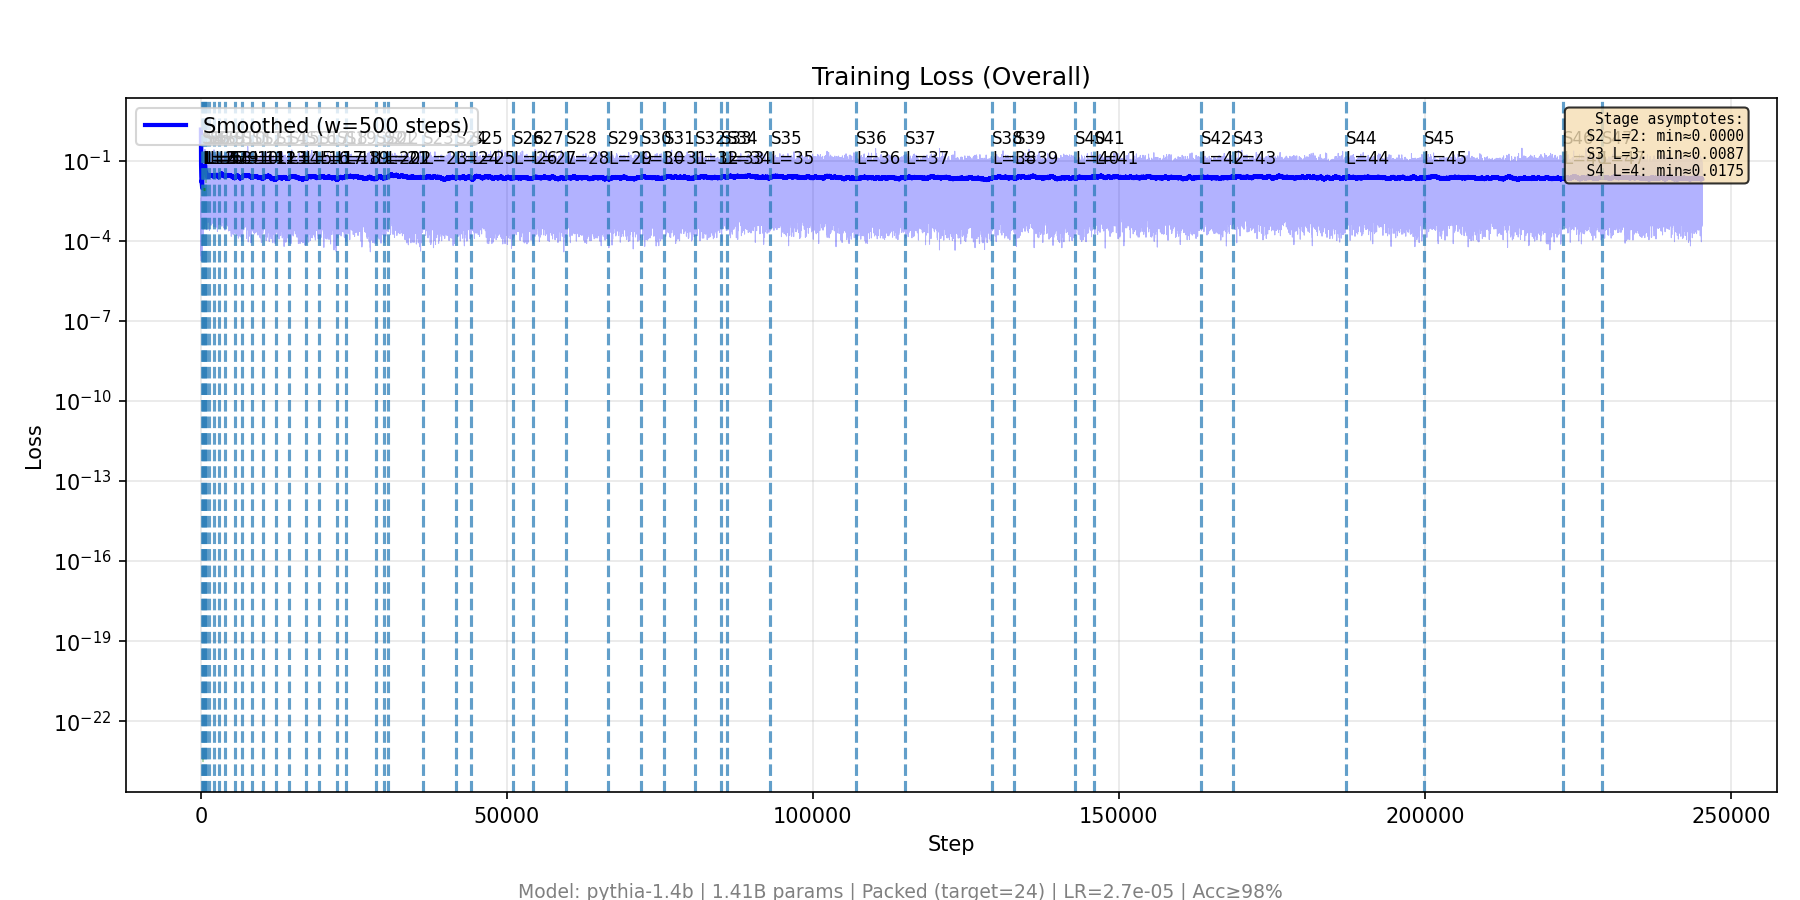
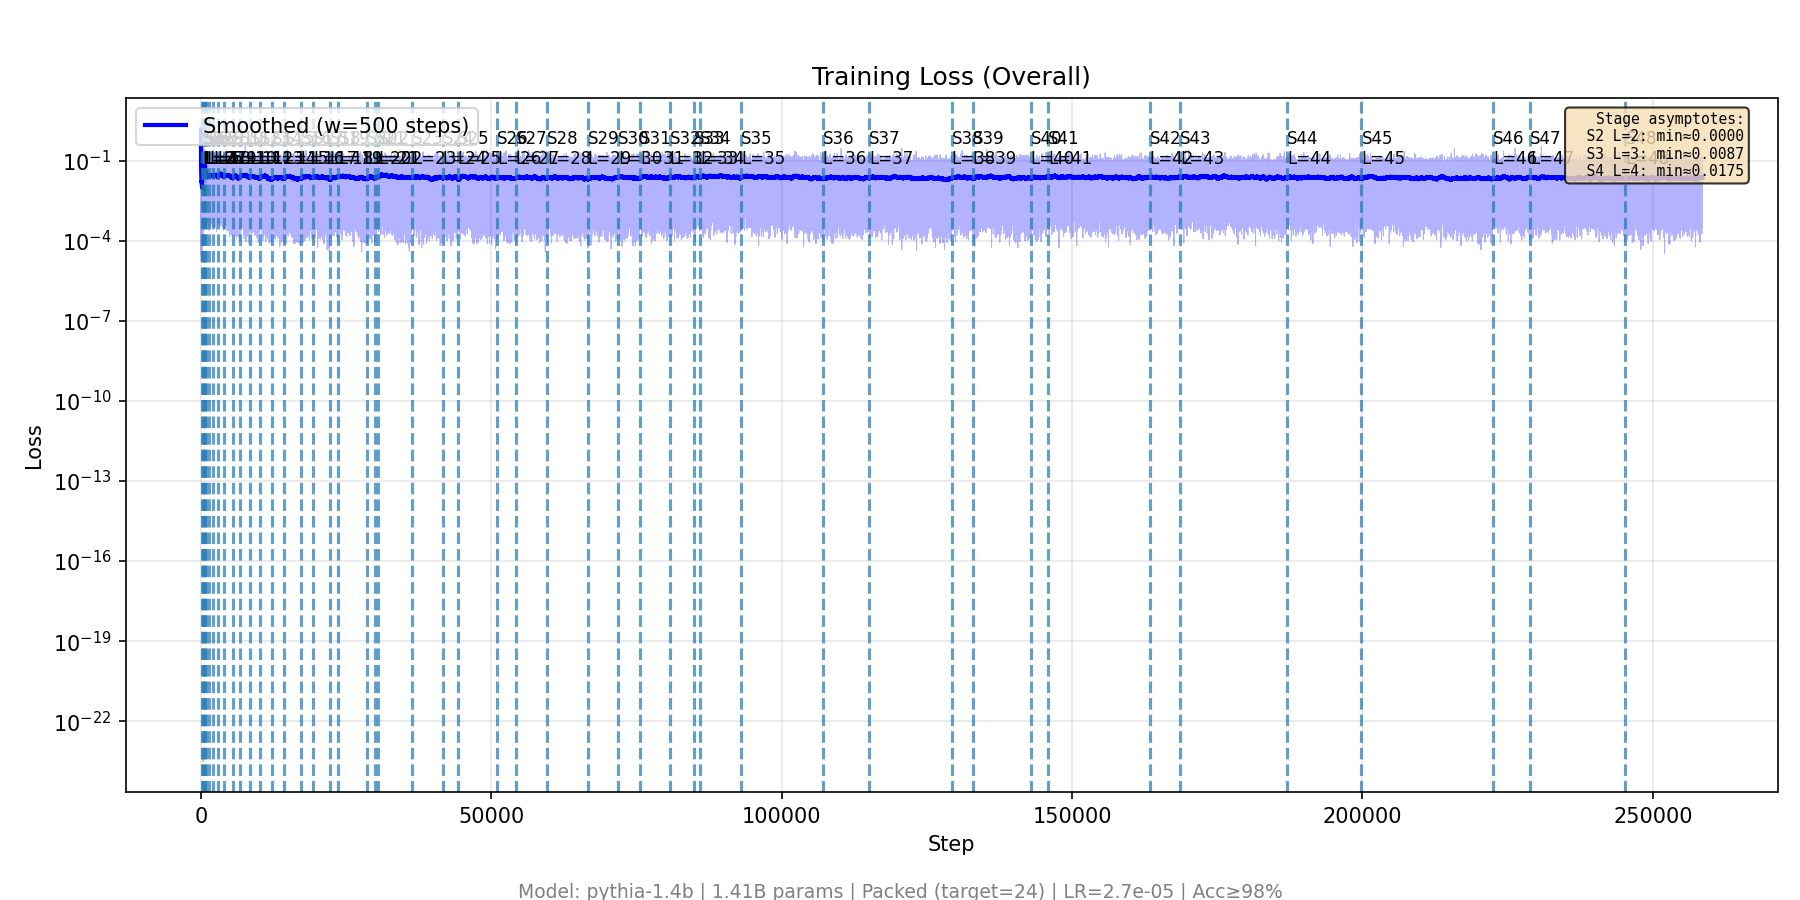
Update Experiment 2 progress (2026-10-20 12:58 UTC)

diff --git a/PROGRESS.md b/PROGRESS.md
@@ -3,7 +3,7 @@
 **Base commit:** `da7b19c` (`main`, plus `--revision` support in `nl/tuning_nl.py`)
 **Branch:** `jackierwzhang/exp2-pythia14b-revisions`
 **VM Instances:** `nl-exp2-spot-step1000`, `nl-exp2-spot-step10000`, `nl-exp2-spot-step100000`, `nl-exp2-spot-step143000` (4x `a3-highgpu-4g` Spot, 4x H100-80GB each)
-**Last updated:** 2026-10-20 12:41 UTC
+**Last updated:** 2026-10-20 12:58 UTC
 
 ## Shared Configuration
 
@@ -29,7 +29,7 @@
 | `step1000` | `step1000` | ~2.1B | `exp2_pythia14b_step1000` | Spot 4x H100 (us-east4-a) | Completed (PFLOPs cap) | 673000 | 28/96 (`L=28`) | 94.62% | 96.25% | 0.0295 | 500,310.1 | 1238.0 | 121.84h | 0.0h (Done) |
 | `step10000` | `step10000` | ~21.0B | `exp2_pythia14b_step10000` | Spot 4x H100 (us-east4-a) | Completed (PFLOPs cap) | 615500 | 28/96 (`L=28`) | 94.88% | 97.75% | 0.0298 | 500,428.3 | 1240.3 | 120.07h | 0.0h (Done) |
 | `step100000` | `step100000` | ~209.7B | `exp2_pythia14b_step100000` | Spot 4x H100 (us-east4-b) | Completed (PFLOPs cap) | 347000 | 58/96 (`L=58`) | 94.88% | 96.88% | 0.0260 | 500,114.3 | 1290.1 | 101.85h | 0.0h (Done) |
-| `step143000` | `step143000` | ~299.9B | `exp2_pythia14b_step143000` | Spot 4x H100 (us-east5-a) | Running | 258230 | 48/96 (`L=48`) | 95.88% | 97.62% | 0.0241 | 313,998.8 | 1302.8 | 62.95h | ~63.1h (stg rate, 50.0% L) / 36.8h (500k cap @ 5,057 PF/h) |
+| `step143000` | `step143000` | ~299.9B | `exp2_pythia14b_step143000` | Spot 4x H100 (us-east5-a) | Running | 259030 | 49/96 (`L=49`) | 95.12% | 96.50% | 0.0254 | 315,305.8 | 1301.3 | 63.24h | ~60.8h (stg rate, 51.0% L) / 36.6h (500k cap @ 5,051 PF/h) |
 
 ## Stage Evaluation Summary (`stage_eval_history.json`, every 8 stages)
 
@@ -70,4 +70,5 @@
 | 24 | 44200 | 24 | 0.2579 | 0.5538 | 47.40% | 45.60% | 97.80% | 97.80% |
 | 32 | 84950 | 32 | 0.3421 | 0.3902 | 53.40% | 52.40% | 98.80% | 98.40% |
 | 40 | 145925 | 40 | 0.4263 | 0.3579 | 58.80% | 57.80% | 98.00% | 97.80% |
+| 48 | 258550 | 48 | 0.5105 | 0.3012 | 66.40% | 65.60% | 97.40% | 97.40% |
 
